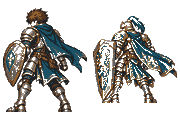
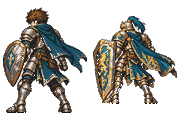
Fix party formation order, shield sprite alpha and class-aware auto-gear
Three player feedback issues fixed: mobile drag and saved battle formation, fully opaque shield job sprites, recommended gear respects job-exclusive sets, and Save moved above feedback in More menu. Full QA passed.

diff --git a/src/main.js b/src/main.js
@@ -32,7 +32,7 @@ import { bankBalance, depositGold, withdrawGold } from './core/bank.js';
 import { getShopInventory, buyItem } from './core/shop.js';
 import { sell, sellEquipmentInstance, getSellPrice, getSellDefinition, getSellWarning, getSellableQuantity } from './core/selling.js';
 import { changeJob } from './core/jobs.js';
-import { setActiveParty } from './core/party.js';
+import { setActiveParty,movePartyMember,shiftPartyMember } from './core/party.js';
 import { equipItem,equipRecommendedEquipment,unequipAllEquipment,toggleEquipmentLock } from './core/equipment.js';
 import { enhanceEquipment,getEnhancedStats } from './core/forge.js';
 import { craftItem } from './core/crafting.js';
@@ -46,6 +46,7 @@ import { skillsMarkup, skillLoadoutMarkup } from './ui/skills.js?v=skill-presets
 import { equipmentMarkup } from './ui/equipment.js';
 import { equipmentCandidateVisible } from './ui/equipment-search.js';
 import { characterSwitcherMarkup } from './ui/character-switcher.js';
+import { wirePartyDockDrag } from './ui/party-dock-drag.js';
 import { captureHorizontalScroll, restoreHorizontalScroll } from './ui/horizontal-scroll.js';
 import { bestiaryMarkup } from './ui/bestiary.js';
 import { createBestiaryRematch } from './core/bestiary.js';
@@ -230,7 +231,7 @@ function openRankingApologyModal(content){modal.classList.add('ranking-apology-o
 function updateRankingApologyModalContent(content){const card=modal.querySelector('.modal-card');if(!card)return openRankingApologyModal(content);card.innerHTML=`<button class="modal-close" data-close-modal>×</button>${content}`;}
 function closeModal(){modal.classList.remove('open','ranking-apology-open','raid-ui-open');modal.innerHTML='';if(battle&&battle.phase==='planning')queueMicrotask(scheduleNormalAuto);}
 function topbar(){const hero=state.characters.find(c=>c.isHero)??state.characters[0];return `<header class="topbar"><button class="brand" data-nav="adventure"><span class="brand-mark">✦</span><span>約束のクロニクル</span></button><div class="top-resources"><span>💰 ${state.gold??0}G</span><span>⭐ Lv${hero?.level??1}</span></div></header>`;}
-function partyDock(){const active=new Set(state.activePartyIds??[]);return `<div class="party-dock">${state.characters.filter(c=>active.has(c.id)).map(c=>{const caps=getCharacterResourceCaps(state,c),hp=Math.max(0,Math.min(100,Math.round((c.hp??0)/Math.max(1,caps.maxHP)*100))),mp=Math.max(0,Math.min(100,Math.round((c.mp??0)/Math.max(1,caps.maxMP)*100)));return `<button data-character-id="${esc(c.id)}" class="dock-member ${c.id===selectedId()?'selected':''}"><span>${esc(c.name.slice(0,1))}</span><small>${esc(c.name)}<br>Lv${c.level}</small><i class="dock-hp" role="progressbar" aria-label="HP" aria-valuemin="0" aria-valuemax="100" aria-valuenow="${hp}"><b style="width:${hp}%"></b></i><i class="dock-mp" role="progressbar" aria-label="MP" aria-valuemin="0" aria-valuemax="100" aria-valuenow="${mp}"><b style="width:${mp}%"></b></i></button>`;}).join('')}</div>`;}
+function partyDock(){const byId=new Map((state.characters??[]).map(c=>[c.id,c]));const ordered=(state.activePartyIds??[]).map(id=>byId.get(id)).filter(Boolean);return `<div class="party-dock" role="group" aria-label="戦闘パーティの隊列：横にドラッグで並び替え">${ordered.map(c=>{const caps=getCharacterResourceCaps(state,c),hp=Math.max(0,Math.min(100,Math.round((c.hp??0)/Math.max(1,caps.maxHP)*100))),mp=Math.max(0,Math.min(100,Math.round((c.mp??0)/Math.max(1,caps.maxMP)*100)));return `<button data-character-id="${esc(c.id)}" data-dock-member="${esc(c.id)}" class="dock-member ${c.id===selectedId()?'selected':''}"><span>${esc(c.name.slice(0,1))}</span><small>${esc(c.name)}<br>Lv${c.level}</small><i class="dock-hp" role="progressbar" aria-label="HP" aria-valuemin="0" aria-valuemax="100" aria-valuenow="${hp}"><b style="width:${hp}%"></b></i><i class="dock-mp" role="progressbar" aria-label="MP" aria-valuemin="0" aria-valuemax="100" aria-valuenow="${mp}"><b style="width:${mp}%"></b></i></button>`;}).join('')}</div>`;}
 const nav=()=>`<nav class="main-nav"><button data-nav="adventure">🗺<span>冒険</span></button><button data-nav="party">👥<span>仲間</span></button><button data-nav="status">📊<span>能力</span></button><button data-nav="jobs">🔯<span>転職</span></button><button data-nav="equipment">⚔<span>装備</span></button><button data-nav="items">🎒<span>アイテム</span></button><button data-nav="more">☰<span>その他</span><i class="game-update-dot" data-game-update-dot aria-label="更新あり" ${gameUpdateAvailable?'':'hidden'}></i></button></nav>`;
 function panelForView(){if(view==='exploreResult')return `<section class="panel exploration-result"><h2>探索を続けますか？</h2><p>${esc(state.adventure?.message??'戦闘終了！').replace(/\n/g,'<br>')}</p><div class="hunt-actions"><button class="action-main" data-explore-continue>はい</button><button data-explore-return>いいえ（町へ戻る）</button></div></section>`;if(view==='masho')return mashoCaveMarkup(state);const switcher=()=>characterSwitcherMarkup(state,selectedId());if(view==='town')return townMarkup(state,huntCountApologyStatus,currentSlot);if(view==='market')return marketMarkup(state,marketUi);if(view==='party')return partyMarkup(state);if(view==='status')return switcher()+statusMarkup(state,selectedId());if(view==='skillList')return switcher()+skillLoadoutMarkup(state,selectedId());if(view==='jobs')return switcher()+jobsMarkup(state,selectedId())+skillsMarkup(state,selectedId());if(view==='equipment')return switcher()+equipmentMarkup(state,selectedId(),equipmentSearch);if(view==='items')return itemsMarkup(state);if(view==='bestiary')return bestiaryMarkup(state);if(view==='quests')return questsMarkup(state,getVisibleQuestDefinitions(state));if(view==='achievements')return achievementsMarkup(state,Object.values(ACHIEVEMENTS));if(view==='forge')return forgeMarkup(state);if(view==='ending')return endingMarkup(state);if(view==='guide')return adventureGuideMarkup(state);if(view==='eidelEnding')return eidelEndingMarkup(state,state.ui?.eidelEndingView??(state.endgame?.complete?'saved':state.endgame?.eidelEnding));if(view==='endgame')return endgameMarkup(state);return adventureMarkup(state);}
 function syncEquipmentCandidateFilters(){
@@ -1243,9 +1244,14 @@ function confirmSkillPresetRename(slot,characterId){
   toast(`「${result.name}」に変更しました`);
  }catch(error){toast(error.message);}
 }
-function openMore(){openModal(`<h2>📚 メニュー</h2><div class="menu-grid"><button data-open-auto-settings><b>オートプレイ設定</b></button><button data-game-update>🔄<b>更新</b><i class="game-update-dot" data-game-update-dot aria-label="更新あり" ${gameUpdateAvailable?'':'hidden'}></i><small>最新版を読み込む</small></button><button data-feedback-open>📮<b>ご意見BOX</b></button>${Date.now()>=COLLECTION_EVENT_202611.startsAt?'<button data-collection-ranking-open>🏆<b>討伐の証ランキング</b></button>':''}${Date.now()>=HUNT_FESTIVAL.end?'<button data-hunt-archive>🎁<b>過去イベント報酬</b></button>':''}<button data-more="guide">📖<b>冒険の達成状況</b></button><button data-more="bestiary">👹<b>魔物図鑑</b></button><button data-more="quests">📜<b>クエスト</b></button><button data-more="achievements">🏆<b>実績</b></button>${state.cycle>=2?'<button data-more="endgame">🌌<b>最終試練</b></button>':''}${hasFirstClear(state)?'<button data-masho-open>🌑<b>魔障の洞窟</b></button>':''}<button data-more="save">💾<b>セーブ</b></button><button data-more="account">🔐<b>アカウント</b></button><button data-more="title">🏠<b>タイトルへ</b></button></div>`);}
+function openMore(){openModal(`<h2>📚 メニュー</h2><div class="menu-grid"><button data-open-auto-settings><b>オートプレイ設定</b></button><button data-game-update>🔄<b>更新</b><i class="game-update-dot" data-game-update-dot aria-label="更新あり" ${gameUpdateAvailable?'':'hidden'}></i><small>最新版を読み込む</small></button><button data-more="save">💾<b>セーブ</b></button><button data-feedback-open>📮<b>ご意見BOX</b></button>${Date.now()>=COLLECTION_EVENT_202611.startsAt?'<button data-collection-ranking-open>🏆<b>討伐の証ランキング</b></button>':''}${Date.now()>=HUNT_FESTIVAL.end?'<button data-hunt-archive>🎁<b>過去イベント報酬</b></button>':''}<button data-more="guide">📖<b>冒険の達成状況</b></button><button data-more="bestiary">👹<b>魔物図鑑</b></button><button data-more="quests">📜<b>クエスト</b></button><button data-more="achievements">🏆<b>実績</b></button>${state.cycle>=2?'<button data-more="endgame">🌌<b>最終試練</b></button>':''}${hasFirstClear(state)?'<button data-masho-open>🌑<b>魔障の洞窟</b></button>':''}<button data-more="account">🔐<b>アカウント</b></button><button data-more="title">🏠<b>タイトルへ</b></button></div>`);}
 function toggleParty(id){const ids=[...(state.activePartyIds??[])],has=ids.includes(id);if(has){if(ids.length===1)return toast('戦闘メンバーは1人以上必要です');setActiveParty(state,ids.filter(x=>x!==id));}else{if(ids.length>=4)return toast('戦闘メンバーは4人までです');setActiveParty(state,[...ids,id]);}saveNow();renderGame();}
 
+wirePartyDockDrag({root:game,onReorder(fromId,toId){
+ if(battle||raidRoom)return toast('戦闘中は隊列を変更できません');
+ try{movePartyMember(state,fromId,toId);saveNow();renderGameKeepVertical();toast('🛡 編成順を保存しました');}
+ catch(error){toast(error.message??'編成順を変更できませんでした');}
+}});
 document.addEventListener('click',e=>{
  const el=e.target.closest('button,[data-modal-backdrop]');if(!el)return;
  if(el.hasAttribute('data-hunt-title-details')){titleHuntDetailsOpen=true;return renderTitleHuntDetails();}
@@ -1400,6 +1406,12 @@ document.addEventListener('click',e=>{
  if(el.dataset.autoBattleSkills){if(battle||raidRoom)return toast('戦闘中は変更できません');const c=state.characters.find(x=>x.id===el.dataset.autoBattleSkills);if(!c)return;try{const ids=getRecommendedBattleSkillIds(c);if(!ids.length)return toast('おまかせで選べる習得済みの技がありません');setBattleSkillLoadout(c,ids);const summary=getRecommendedBattleSkillSummary(c,ids);saveNow();renderGameKeepVertical();toast(`おまかせ編成：${summary||ids.length+'個'}をセットしました`);}catch(err){toast(err.message);}return;}
  if(el.dataset.toggleBattleSkill){if(battle||raidRoom)return toast('戦闘中は変更できません');const c=state.characters.find(x=>x.id===el.dataset.skillCharacter);if(!c)return;try{const ids=getSelectedSkillIds(c),id=el.dataset.toggleBattleSkill;setBattleSkillLoadout(c,ids.includes(id)?ids.filter(x=>x!==id):[...ids,id]);saveNow();renderGameKeepVertical();}catch(err){toast(err.message);}return;}
  if(el.dataset.characterId){state.selectedCharacterId=el.dataset.characterId;saveNow();return renderGame();}
+ if(el.dataset.partyShift){
+  if(battle||raidRoom)return toast('戦闘中は隊列を変更できません');
+  try{shiftPartyMember(state,el.dataset.partyShift,Number(el.dataset.partyDir));saveNow();renderGameKeepVertical();toast('🛡 編成順を保存しました');}
+  catch(error){toast(error.message??'編成順を変更できませんでした');}
+  return;
+ }
  if(el.dataset.toggleParty)return toggleParty(el.dataset.toggleParty);
  if(el.hasAttribute('data-masho-open')){if(!hasFirstClear(state))return toast('一周目クリアで解放されます');setMashoResultVisibility(state,false);view='masho';closeModal();return renderGame();}
  if(el.hasAttribute('data-masho-back')){setMashoResultVisibility(state,false);view='adventure';return renderGame();}

diff --git a/src/ui/equipment.js b/src/ui/equipment.js
@@ -130,5 +130,5 @@ export function equipmentMarkup(state,characterId,searchQuery=''){
   const equippedCount=slots.filter(slot=>!!c.equipment?.[slot]).length,totalCopies=rows.length;
   const visibleGroups=groups.filter(g=>equipmentCandidateVisible({category:selected,itemCategory:equipmentCategoryFor(g.def),unequipped:g.unequipped.length>0,name:g.def.name,query:searchQuery})).length;
   const emptyMessage=String(searchQuery).trim()?'検索に一致する装備がありません。':selected==='unequipped'?'未装備のアイテムがありません。':'このカテゴリに装備できるアイテムがありません。';
-  return `<section class="panel equipment equipment-screen"><div class="section-title"><h2>⚔ 装備</h2><span>${esc(c.name)}</span></div>${tabs}<div class="equipment-overview"><b>${esc(c.name)}の装備</b><span>${equippedCount}/${slots.length}部位</span>${c.currentJob==='summoner'?'<small class="equipment-summoner-book-note">📖 通常武器と魔本を同時に装備可能</small>':''}<span>所持 ${groups.length}種 / ${totalCopies}個</span><button data-recommend-equipment class="equipment-recommend-button">✨ おすすめ装備</button><button type="button" data-unequip-all class="equipment-unequip-all" ${equippedCount?'':'disabled'}>すべて外す</button></div><p class="equipment-recommend-note">おすすめ装備は現在の職業・職業Lv・能力傾向から自動選択します。他の仲間が装備中の品は取りません。</p><p class="notice equipment-resistance-total"><b>🛡 装備属性耐性</b><br>${totalResistText}<br><small>属性ダメージを軽減します（各属性 最大75%）。</small></p><p class="notice">魔障シリーズ ${getMashoSetCount(state,c)}/9部位${getMashoSetCount(state,c)===9?'：セット効果発動！ 全能力＋10':'：9部位で攻撃・防御・魔法・素早さ・最大HP・最大MP＋10'}</p><div class="equipped-slots">${current}</div></section><section class="panel equipment-candidates"><div class="equipment-list-head"><div><h2>${selected==='unequipped'?'未装備一覧':'装備候補'}</h2><small aria-live="polite">${visibleGroups}種を表示</small></div><button data-open-sell-shop class="equipment-organize-button">💰 整理・売却</button></div>${selected==='unequipped'?'<p class="notice">未装備の在庫が1個以上ある種類だけを表示。装備中の仲間も同じカードで確認できます。</p>':'<p class="notice">同じ装備はまとめて表示。装備中の仲間と、現在装備との能力差がすぐ確認できます。</p>'}<div class="equipment-search"><label for="equipment-search-input">🔎 装備名で検索</label><div class="equipment-search-controls"><input id="equipment-search-input" data-equipment-search type="search" value="${esc(searchQuery)}" placeholder="装備名を入力（例：魔障）" maxlength="100" autocomplete="off" aria-label="装備名で検索"><button type="button" data-equipment-search-clear ${String(searchQuery).trim()?'':'hidden'}>クリア</button></div></div><div class="equipment-group-list">${candidateCards||'<p class="notice">装備アイテムがありません。</p>'}</div><p class="notice equipment-category-empty" ${visibleGroups>0?'hidden':''}>${emptyMessage}</p></section>`;
+  return `<section class="panel equipment equipment-screen"><div class="section-title"><h2>⚔ 装備</h2><span>${esc(c.name)}</span></div>${tabs}<div class="equipment-overview"><b>${esc(c.name)}の装備</b><span>${equippedCount}/${slots.length}部位</span>${c.currentJob==='summoner'?'<small class="equipment-summoner-book-note">📖 通常武器と魔本を同時に装備可能</small>':''}<span>所持 ${groups.length}種 / ${totalCopies}個</span><button data-recommend-equipment class="equipment-recommend-button">✨ おすすめ装備</button><button type="button" data-unequip-all class="equipment-unequip-all" ${equippedCount?'':'disabled'}>すべて外す</button></div><p class="equipment-recommend-note">おすすめ装備は現在の職業・職業Lv・能力傾向から自動選択します。盾士・大盾士の自動選択では他職専用装備を除外します（手動装備は従来どおり自由）。他の仲間が装備中の品は取りません。</p><p class="notice equipment-resistance-total"><b>🛡 装備属性耐性</b><br>${totalResistText}<br><small>属性ダメージを軽減します（各属性 最大75%）。</small></p><p class="notice">魔障シリーズ ${getMashoSetCount(state,c)}/9部位${getMashoSetCount(state,c)===9?'：セット効果発動！ 全能力＋10':'：9部位で攻撃・防御・魔法・素早さ・最大HP・最大MP＋10'}</p><div class="equipped-slots">${current}</div></section><section class="panel equipment-candidates"><div class="equipment-list-head"><div><h2>${selected==='unequipped'?'未装備一覧':'装備候補'}</h2><small aria-live="polite">${visibleGroups}種を表示</small></div><button data-open-sell-shop class="equipment-organize-button">💰 整理・売却</button></div>${selected==='unequipped'?'<p class="notice">未装備の在庫が1個以上ある種類だけを表示。装備中の仲間も同じカードで確認できます。</p>':'<p class="notice">同じ装備はまとめて表示。装備中の仲間と、現在装備との能力差がすぐ確認できます。</p>'}<div class="equipment-search"><label for="equipment-search-input">🔎 装備名で検索</label><div class="equipment-search-controls"><input id="equipment-search-input" data-equipment-search type="search" value="${esc(searchQuery)}" placeholder="装備名を入力（例：魔障）" maxlength="100" autocomplete="off" aria-label="装備名で検索"><button type="button" data-equipment-search-clear ${String(searchQuery).trim()?'':'hidden'}>クリア</button></div></div><div class="equipment-group-list">${candidateCards||'<p class="notice">装備アイテムがありません。</p>'}</div><p class="notice equipment-category-empty" ${visibleGroups>0?'hidden':''}>${emptyMessage}</p></section>`;
 }

diff --git a/src/core/equipment.js b/src/core/equipment.js
@@ -93,6 +93,18 @@ export function unequipItem(state,characterId,slot){const c=state.characters.fin
 export function getEquippedItems(character,state){return Object.values(character.equipment??{}).filter(Boolean).map(ref=>typeof ref==='object'?ref:state?.equipmentInventory?.find(x=>x.instanceId===ref)??null).filter(Boolean);}
 
 
+// Manual equipment stays as previously specified: both shield jobs may equip
+// all ordinary gear. Recommended equipment is stricter and never selects
+// explicitly dedicated items from another job's armor or weapon set.
+export function recommendationAllowedForJob(character,def){
+ if(!def)return false;
+ if(!['shielder','greatShielder'].includes(character?.currentJob))return true;
+ const job=character.currentJob;
+ if(Array.isArray(def.allowedJobs)&&def.allowedJobs.length&&!def.allowedJobs.includes(job))return false;
+ if(def.armorGroup&&!['shielder','greatShielder'].includes(def.armorGroup))return false;
+ if(def.eventJobGroup&&!['shielder','greatShielder'].includes(def.eventJobGroup))return false;
+ return true;
+}
 function recommendationScore(character,inst){
  const def=EQUIPMENT[inst?.equipmentId];if(!def)return -Infinity;
  const stats=getEnhancedStats(inst),job=JOBS[character.currentJob],base=job?.stats??{attack:3,defense:3,magic:3,speed:3};
@@ -109,7 +121,7 @@ function availableRecommendationInstances(state,character){
 }
 function jobLevelAllows(character,def,inst=null){return (character.jobLevels?.[character.currentJob]??1)>=getRequiredJobLevel(def,inst);}
 function shieldCompatibleForWeapon(character,shieldDef,weaponDef,state,shieldInstance=null){
- if(!shieldDef||!canEquipForJob(character,shieldDef,state)||!jobLevelAllows(character,shieldDef,shieldInstance))return false;
+ if(!shieldDef||!canEquipForJob(character,shieldDef,state)||!recommendationAllowedForJob(character,shieldDef)||!jobLevelAllows(character,shieldDef,shieldInstance))return false;
  const job=JOBS[character.currentJob];if(!job)return false;
  // These event / Masho offhand pieces are explicitly exempt from standard
  // shield restrictions in canEquip(). Recommended gear must honor that rule.
@@ -121,13 +133,13 @@ function shieldCompatibleForWeapon(character,shieldDef,weaponDef,state,shieldIns
 }
 function bestBySlot(character,instances,slot,state){
  let best=null,bestScore=-Infinity;
- for(const inst of instances){const def=EQUIPMENT[inst.equipmentId];if(!def)continue;const actual=def.slot==='accessory'?(def.accessoryType==='charm'?'accessory2':'accessory1'):def.slot;if(actual!==slot)continue;if(!canEquipForJob(character,def,state)||!jobLevelAllows(character,def,inst))continue;const score=recommendationScore(character,inst);if(score>bestScore){best=inst;bestScore=score;}}
+ for(const inst of instances){const def=EQUIPMENT[inst.equipmentId];if(!def)continue;const actual=def.slot==='accessory'?(def.accessoryType==='charm'?'accessory2':'accessory1'):def.slot;if(actual!==slot)continue;if(!canEquipForJob(character,def,state)||!recommendationAllowedForJob(character,def)||!jobLevelAllows(character,def,inst))continue;const score=recommendationScore(character,inst);if(score>bestScore){best=inst;bestScore=score;}}
  return best;
 }
 export function equipRecommendedEquipment(state,characterId){
  const c=state.characters?.find(x=>x.id===characterId);if(!c)throw new Error('キャラクターが見つかりません');
  const pool=availableRecommendationInstances(state,c);if(!pool.length)throw new Error('おすすめできる装備がありません');
- const weapons=pool.filter(inst=>EQUIPMENT[inst.equipmentId]?.slot==='weapon'&&canEquipForJob(c,EQUIPMENT[inst.equipmentId],state)&&jobLevelAllows(c,EQUIPMENT[inst.equipmentId],inst));
+ const weapons=pool.filter(inst=>EQUIPMENT[inst.equipmentId]?.slot==='weapon'&&canEquipForJob(c,EQUIPMENT[inst.equipmentId],state)&&recommendationAllowedForJob(c,EQUIPMENT[inst.equipmentId])&&jobLevelAllows(c,EQUIPMENT[inst.equipmentId],inst));
  const shields=pool.filter(inst=>EQUIPMENT[inst.equipmentId]?.slot==='shield');
  let bestWeapon=null,bestShield=null,bestCombo=-Infinity;
  // Even when the inventory has no equippable weapon, a shield may be usable.
@@ -145,6 +157,17 @@ export function equipRecommendedEquipment(state,characterId){
    if(combo>bestCombo){bestCombo=combo;bestWeapon=weapon;bestShield=shield;}
  }
  const before={...(c.equipment??{})};c.equipment??={};
+ // A recommendation must not retain another class's dedicated pieces,
+ // even if a user had equipped them manually under the all-gear rule.
+ if(['shielder','greatShielder'].includes(c.currentJob)){
+  for(const [slot,ref] of Object.entries(c.equipment)){
+   if(!ref)continue;
+   const id=typeof ref==='object'?ref.instanceId:ref;
+   const inst=state.equipmentInventory?.find(x=>x.instanceId===id);
+   const def=EQUIPMENT[inst?.equipmentId??(typeof ref==='object'?ref.equipmentId:null)];
+   if(def&&!recommendationAllowedForJob(c,def))c.equipment[slot]=null;
+  }
+ }
  if(bestWeapon) equipItem(state,c.id,bestWeapon.instanceId,'weapon');
  if(bestShield){try{equipItem(state,c.id,bestShield.instanceId,'shield');}catch{}}
  for(const slot of ['spellbook','head','body','arms','waist','legs','accessory1','accessory2']){if(slot==='spellbook'&&c.currentJob!=='summoner')continue;const best=bestBySlot(c,pool,slot,state);if(best){try{equipItem(state,c.id,best.instanceId,slot);}catch{}}}

diff --git a/src/ui/party.js b/src/ui/party.js
@@ -1,4 +1,4 @@
 import { JOBS } from '../data/jobs.js';
 import { getCharacterResourceCaps } from '../core/combat-stats.js';
 const esc=s=>String(s??'').replace(/[&<>"']/g,m=>({'&':'&amp;','<':'&lt;','>':'&gt;','"':'&quot;',"'":'&#39;'}[m]));
-export function partyMarkup(state){const active=new Set(state.activePartyIds??[]);return `<section class="panel"><div class="section-title"><h2>👥 パーティ編成</h2><span>戦闘メンバー ${active.size}/4</span></div><p class="notice">8人の仲間から最大4人を戦闘メンバーに編成できます。主人公を控えにすることもできます。</p><div class="party-grid">${(state.characters??[]).map(c=>`<article class="character-card ${active.has(c.id)?'is-active':''}"><button class="character-select" data-character-id="${esc(c.id)}"><strong>${esc(c.name)} ${c.isHero?'✦':''}</strong><span>Lv${c.level} / ${esc(JOBS[c.currentJob]?.name??c.currentJob)}</span><small class="character-resources"><span>HP ${c.hp}/${getCharacterResourceCaps(state,c).maxHP}</span><span>MP ${c.mp}/${getCharacterResourceCaps(state,c).maxMP}</span></small></button><div class="character-card-actions"><button class="party-toggle" data-toggle-party="${esc(c.id)}">${active.has(c.id)?'戦闘メンバー':'＋ 編成する'}</button><button class="character-skill-list" data-character-skills="${esc(c.id)}">特技・魔法リスト</button><button class="rename-character" data-rename-character="${esc(c.id)}">名前変更</button></div></article>`).join('')}</div></section>`;}
+export function partyMarkup(state){const active=new Set(state.activePartyIds??[]),ordered=[...(state.activePartyIds??[]).map(id=>(state.characters??[]).find(c=>c.id===id)).filter(Boolean),...(state.characters??[]).filter(c=>!active.has(c.id))];return `<section class="panel"><div class="section-title"><h2>👥 パーティ編成</h2><span>戦闘メンバー ${active.size}/4</span></div><p class="notice">8人の仲間から最大4人を戦闘メンバーに編成できます。主人公を控えにすることもできます。画面下の4人を左右にドラッグして隊列を変更できます。この順番で盾士の肩代わり位置が決まります。</p><div class="party-grid">${ordered.map(c=>`<article class="character-card ${active.has(c.id)?'is-active':''}"><button class="character-select" data-character-id="${esc(c.id)}"><strong>${esc(c.name)} ${c.isHero?'✦':''}${active.has(c.id)?` <small>隊列${(state.activePartyIds??[]).indexOf(c.id)+1}</small>`:''}</strong><span>Lv${c.level} / ${esc(JOBS[c.currentJob]?.name??c.currentJob)}</span><small class="character-resources"><span>HP ${c.hp}/${getCharacterResourceCaps(state,c).maxHP}</span><span>MP ${c.mp}/${getCharacterResourceCaps(state,c).maxMP}</span></small></button><div class="character-card-actions"><button class="party-toggle" data-toggle-party="${esc(c.id)}">${active.has(c.id)?'戦闘メンバー':'＋ 編成する'}</button><button class="character-skill-list" data-character-skills="${esc(c.id)}">特技・魔法リスト</button><button class="rename-character" data-rename-character="${esc(c.id)}">名前変更</button></div>${active.has(c.id)?`<div class="party-order-buttons"><button type="button" data-party-shift="${esc(c.id)}" data-party-dir="-1" aria-label="${esc(c.name)}を左へ移動" ${(state.activePartyIds??[]).indexOf(c.id)===0?'disabled':''}>← 左へ</button><button type="button" data-party-shift="${esc(c.id)}" data-party-dir="1" aria-label="${esc(c.name)}を右へ移動" ${(state.activePartyIds??[]).indexOf(c.id)===(state.activePartyIds??[]).length-1?'disabled':''}>右へ →</button></div>`:''}</article>`).join('')}</div></section>`;}

diff --git a/src/ui/party-dock-drag.js b/src/ui/party-dock-drag.js
@@ -1,0 +1,51 @@
+// Pointer Events work with iPhone/Android touch and desktop mouse.
+// Keep each dock card tappable; only a deliberate horizontal drag reorders.
+export function wirePartyDockDrag({root,onReorder}){
+ if(!root||typeof onReorder!=='function')throw new Error('並び替えを初期化できません');
+ let pointer=null,suppressClickUntil=0;
+ const members=()=>[...root.querySelectorAll('.party-dock [data-dock-member]')];
+ const hit=(x,y)=>members().find(button=>{
+  const rect=button.getBoundingClientRect();
+  return x>=rect.left&&x<=rect.right&&y>=rect.top-14&&y<=rect.bottom+14;
+ })??null;
+ const clear=()=>{
+  root.querySelector('.party-dock')?.classList.remove('is-reordering');
+  for(const button of members())button.classList.remove('is-dragging','is-drop-target');
+ };
+ root.addEventListener('pointerdown',event=>{
+  const member=event.target.closest?.('.party-dock [data-dock-member]');
+  if(!member||(event.pointerType==='mouse'&&event.button!==0))return;
+  pointer={id:member.dataset.dockMember,number:event.pointerId,startX:event.clientX,startY:event.clientY,dragging:false};
+ });
+ root.addEventListener('pointermove',event=>{
+  const p=pointer;
+  if(!p||event.pointerId!==p.number)return;
+  const dx=Math.abs(event.clientX-p.startX),dy=Math.abs(event.clientY-p.startY);
+  if(!p.dragging){
+   if(dx<14||dx<=dy)return;
+   p.dragging=true;
+   root.querySelector('.party-dock')?.classList.add('is-reordering');
+   members().find(x=>x.dataset.dockMember===p.id)?.classList.add('is-dragging');
+  }
+  const over=hit(event.clientX,event.clientY);
+  for(const button of members())button.classList.toggle('is-drop-target',button===over);
+ });
+ function finish(event,cancel=false){
+  const p=pointer;if(!p||p.number!==event.pointerId)return;
+  pointer=null;
+  const drop=!cancel&&p.dragging?hit(event.clientX,event.clientY):null;
+  clear();
+  if(!p.dragging)return;
+  suppressClickUntil=Date.now()+650;
+  if(!drop||drop.dataset.dockMember===p.id)return;
+  onReorder(p.id,drop.dataset.dockMember);
+ }
+ root.addEventListener('pointerup',event=>finish(event));
+ root.addEventListener('pointercancel',event=>finish(event,true));
+ // Prevent a drag releasing on another member from also selecting them.
+ root.addEventListener('click',event=>{
+  if(Date.now()>suppressClickUntil||!event.target.closest?.('.party-dock'))return;
+  suppressClickUntil=0;event.preventDefault();event.stopImmediatePropagation();
+ },true);
+ return ()=>{pointer=null;clear();};
+}

diff --git a/src/ui/battle-art.js b/src/ui/battle-art.js
@@ -23,7 +23,7 @@ BOSS_ART['trial-gunbreaker']=descriptor('specialJobs',2);
 BOSS_ART['trial-astrologian']=descriptor('specialJobs',3);
 // Nox reuses a dark boss pixel sprite from the existing oath atlas.
 BOSS_ART['event-eclipse-nox']=descriptor('oaths',4);
-const jobArt=job=>['shielder','greatShielder'].includes(job)?{sheet:'shieldJobs',index:job==='shielder'?0:1,cols:2,rows:1,aspect:.75,src:'./assets/battle/shield-jobs.png?v=20261024'}:['dragoon','summoner'].includes(job)?{sheet:job,index:0,cols:1,rows:1,aspect:.75,src:`./assets/battle/${job}.png?v=approved-height-20261020`}:['gunbreaker','astrologian'].includes(job)?descriptor('specialJobs',job==='gunbreaker'?0:1):job==='highWizard'?descriptor('highWizardFemale',0):descriptor('jobs',Math.max(0,JOB_ART_IDS.indexOf(job)));
+const jobArt=job=>['shielder','greatShielder'].includes(job)?{sheet:'shieldJobs',index:job==='shielder'?0:1,cols:2,rows:1,aspect:.75,src:'./assets/battle/shield-jobs.png?v=20261024-opaque'}:['dragoon','summoner'].includes(job)?{sheet:job,index:0,cols:1,rows:1,aspect:.75,src:`./assets/battle/${job}.png?v=approved-height-20261020`}:['gunbreaker','astrologian'].includes(job)?descriptor('specialJobs',job==='gunbreaker'?0:1):job==='highWizard'?descriptor('highWizardFemale',0):descriptor('jobs',Math.max(0,JOB_ART_IDS.indexOf(job)));
 export function actorArt(actor={}){
  if(actor.side==='ally')return jobArt(actor.currentJob);
  if(actor.raidBoss&&['fenrir','chryps'].includes(actor.bossId??actor.id))return descriptor(actor.bossId??actor.id,0);

diff --git a/src/core/party.js b/src/core/party.js
@@ -32,3 +32,25 @@ export function setActiveParty(state, characterIds) {
   state.activePartyIds = [...characterIds];
   return state.activePartyIds;
 }
+
+/**
+ * Move a battle member to a different party position while preserving all
+ * membership and character data. The existing activePartyIds array is the
+ * single source of truth for both UI order and adjacent cover positioning.
+ */
+export function movePartyMember(state,fromId,toId){
+ const current=[...(state.activePartyIds??[])];
+ if(fromId===toId)return current;
+ const from=current.indexOf(fromId),to=current.indexOf(toId);
+ if(from<0||to<0)throw new Error('編成中の仲間だけ並び替えられます');
+ current.splice(from,1);
+ current.splice(to,0,fromId);
+ return setActiveParty(state,current);
+}
+export function shiftPartyMember(state,id,direction){
+ const ids=[...(state.activePartyIds??[])],from=ids.indexOf(id),to=from+Number(direction);
+ if(from<0)throw new Error('編成中の仲間だけ並び替えられます');
+ if(!Number.isInteger(Number(direction))||![1,-1].includes(Number(direction)))throw new Error('移動方向が不正です');
+ if(to<0||to>=ids.length)return ids;
+ return movePartyMember(state,id,ids[to]);
+}

diff --git a/styles/main.css b/styles/main.css
@@ -996,3 +996,14 @@ button .pixel-icon,.top-resources .pixel-icon,.scene-meta .pixel-icon{vertical-a
 [data-skill-preset-name-input]{display:block;width:100%;max-width:100%;margin:.5rem 0 1rem;background:#0e192a;color:#fff;border:1px solid #566883;border-radius:8px;padding:.65rem;font:inherit}
 
 /* 盾士・大盾士：90×120セル×2のドット絵を既存ジョブ一覧に表示 */
+
+
+/* Order = left-to-right position of the dock's four active members.
+   Mobile pointer drag is horizontal; vertical page scrolling remains enabled. */
+.party-dock .dock-member{touch-action:pan-y;user-select:none;-webkit-user-select:none;cursor:grab}
+.party-dock.is-reordering .dock-member{transition:transform .12s,border-color .12s,background .12s}
+.party-dock .dock-member.is-dragging{cursor:grabbing;transform:translateY(-4px);border-color:#f0c96f;box-shadow:0 2px 9px rgba(240,201,111,.25)}
+.party-dock .dock-member.is-drop-target:not(.is-dragging){border-color:#69baff;background:#223855}
+.party-order-buttons{display:flex;gap:8px;margin-top:8px}
+.party-order-buttons button{flex:1;min-height:38px;border:1px solid #647b9a;background:#17263e;border-radius:8px}
+.party-order-buttons button:disabled{opacity:.35}
